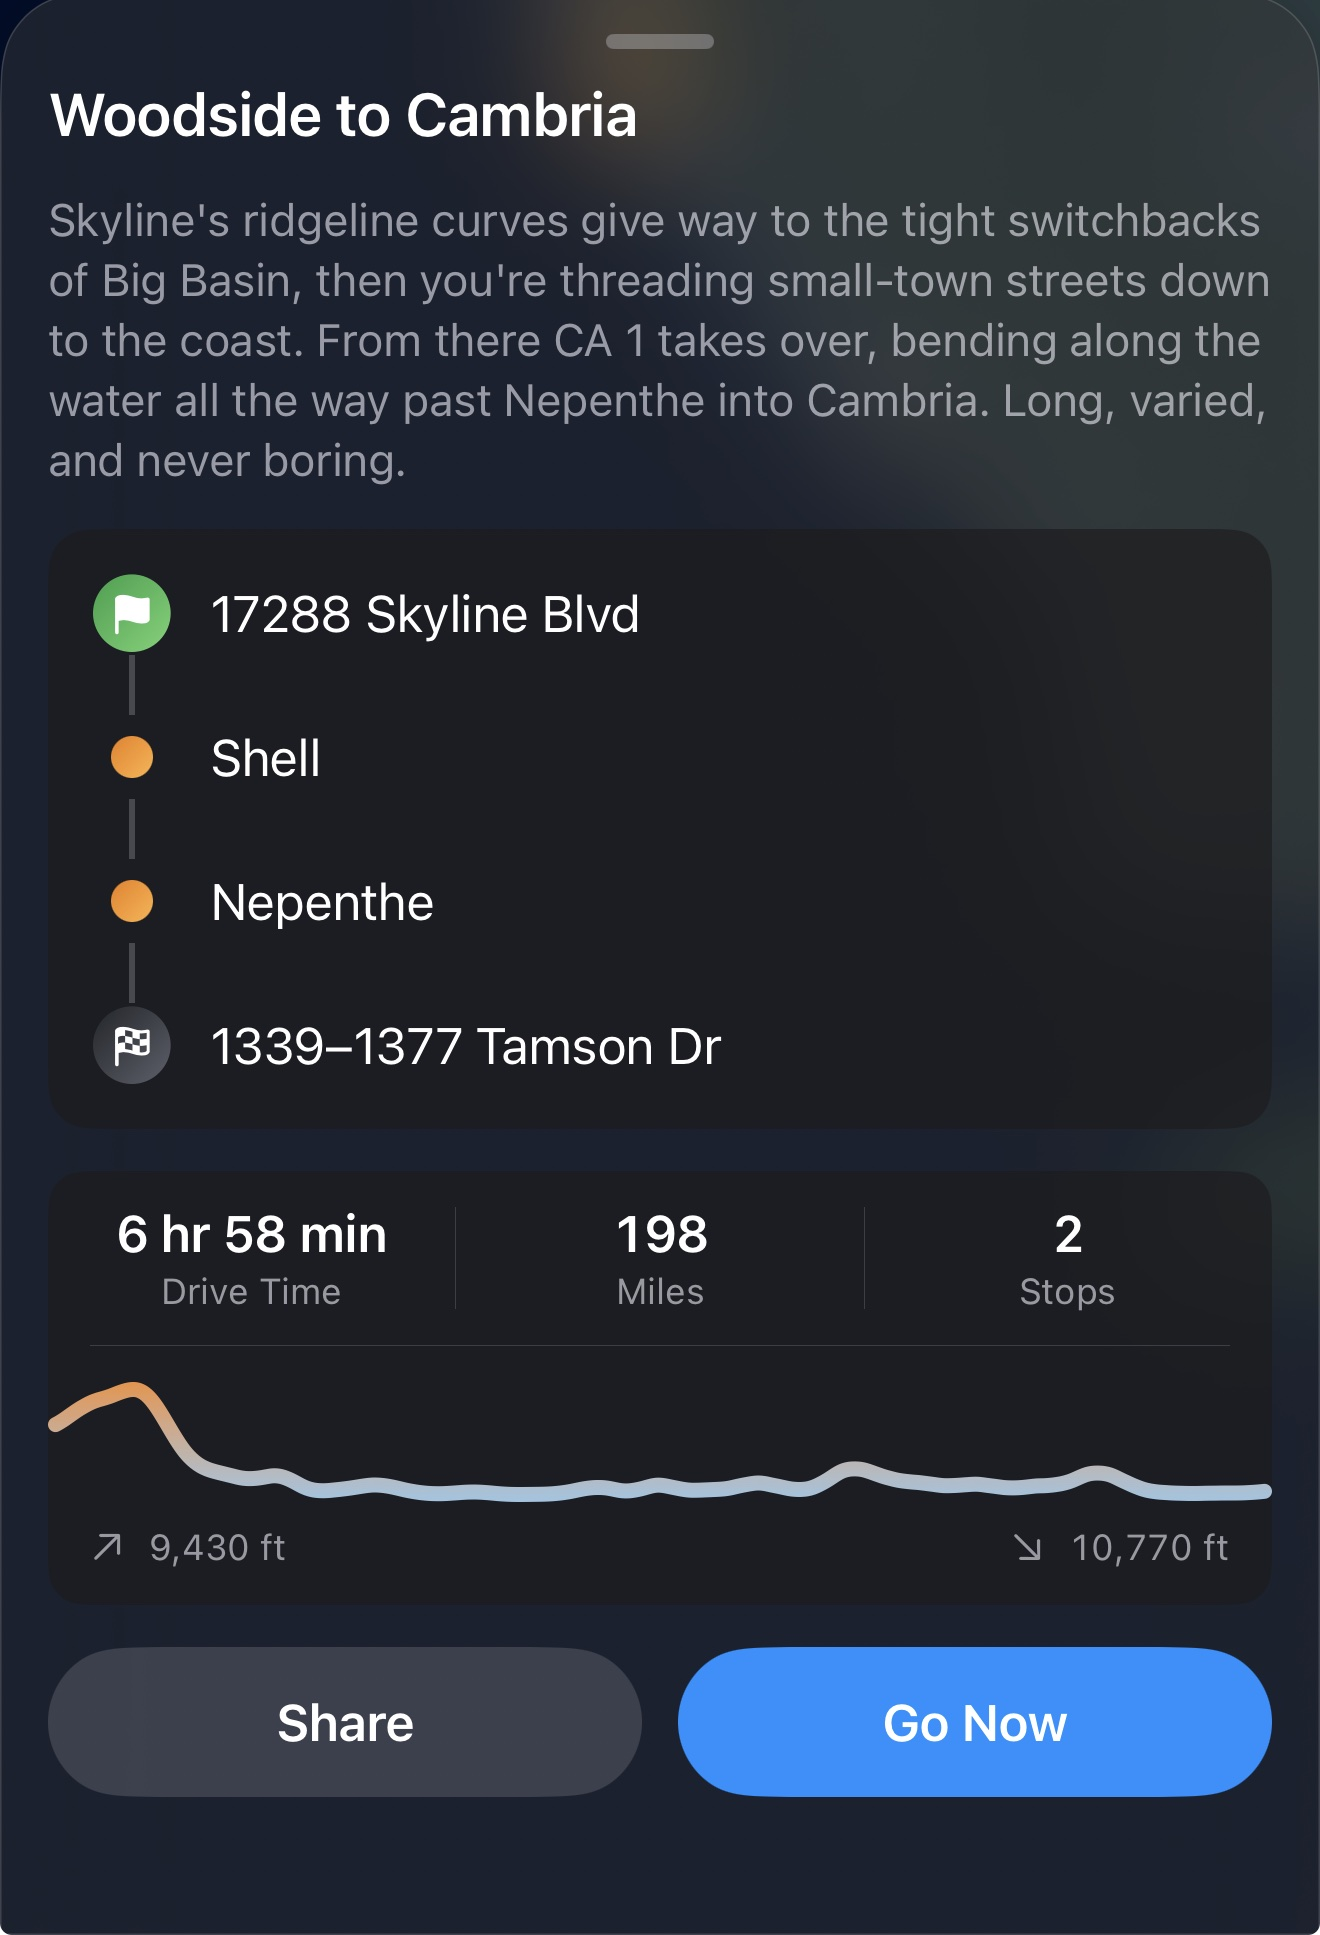
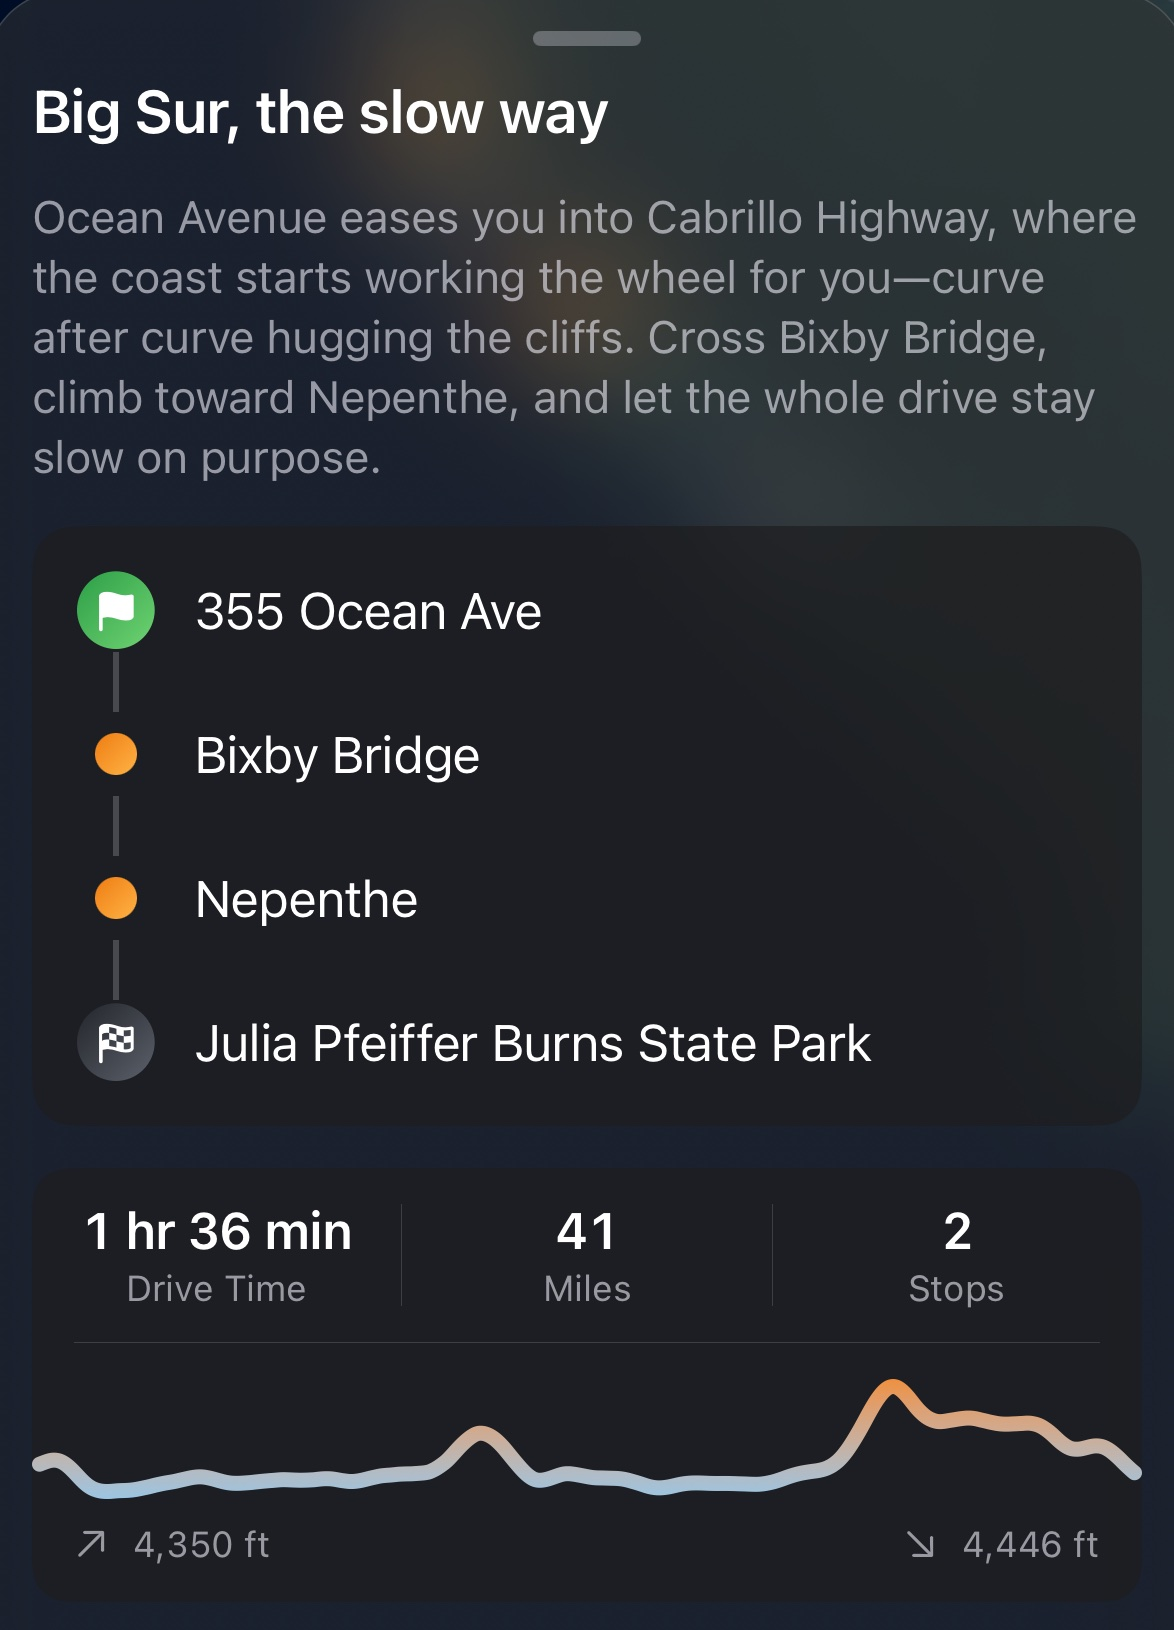
Site: more of each screen, and a word with a picture
Plan now shows the preview card over the map it sits on, both cropped
from one fresh capture of Big Sur, the slow way — the same drive the next
two sections show, and the first shot on the page with the written
description in it. Taken by deep-linking a saved route into the simulator
rather than reusing an older screenshot of a different drive.

Drive gains a drawn status bar reading No Service above the guidance, and
enough map to see the route and the puck. Return keeps its banner but now
shows the way back to the road. Share says "Great drives are worth
sharing" over a deck of route cards.

Rolodex words carry an emoji each, in the order asked for.

diff --git a/index.html b/index.html
@@ -154,7 +154,29 @@
     box-shadow: 0 26px 50px -26px rgba(21,24,28,.55);
   }
   .detail img { display: block; width: 100%; height: auto; }
-  .detail.tall { max-width: 420px; margin-inline: auto; }
+  /* Two crops of one screen, stacked: the card, then the map it sits on. */
+  .pair { display: grid; gap: 14px; max-width: 430px; margin-inline: auto; }
+
+  /* A phone's status bar, drawn rather than screenshotted, so it can say
+     the thing the section is about. */
+  .statusbar {
+    display: flex; align-items: center; justify-content: space-between;
+    background: #0F1729; color: #fff; padding: 9px 16px 7px;
+    font-family: var(--sans); font-size: 13px; font-weight: 600;
+  }
+  .statusbar .no-service { display: inline-flex; align-items: center; gap: 7px; }
+  .statusbar svg { width: 15px; height: 15px; display: block; }
+
+  /* Other routes behind the one on top. */
+  .stack { position: relative; }
+  .stack-card {
+    position: absolute; left: 50%; transform: translateX(-50%);
+    height: 44px; border-radius: 18px; background: #1B2637;
+    box-shadow: 0 14px 30px -20px rgba(21,24,28,.6);
+  }
+  .stack-card.one { width: 76%; top: -30px; background: #16202F; }
+  .stack-card.two { width: 88%; top: -15px; }
+  .stack .detail { position: relative; }
 
   /* CarPlay: the line-art dash, with the screenshot let into its screen.
      The screen's rectangle was measured off the drawing, so the two stay
@@ -239,7 +261,7 @@
     .feat h2 { margin-top: 14px; }
     .feat-copy p { margin-top: 14px; font-size: 17px; }
     .chip { margin-top: 16px; }
-    .detail.tall { max-width: 300px; }
+    .pair { max-width: 300px; }
     .also { padding-top: 32px; }
     .pricing { padding-top: 64px; }
     .price-head { margin-bottom: 24px; }
@@ -284,7 +306,7 @@
     <p class="kicker rise">Carve Route Planner</p>
     <h1 class="rise">Maps for the<br>Love of <em>Driving</em></h1>
     <p class="lede rise">Offline-ready navigation<br>for every
-      <span class="rolodex" id="rolodex" aria-live="off"><span class="rolodex-gauge" aria-hidden="true">countryside</span><span class="rolodex-view"><span class="rolodex-track"><span class="rolodex-word">canyon</span><span class="rolodex-word" aria-hidden="true"></span></span></span></span></p>
+      <span class="rolodex" id="rolodex" aria-live="off"><span class="rolodex-gauge" aria-hidden="true">countryside 🌾</span><span class="rolodex-view"><span class="rolodex-track"><span class="rolodex-word">mountain ⛰</span><span class="rolodex-word" aria-hidden="true"></span></span></span></span></p>
     <div class="cta rise" id="get">
       <a class="btn btn-primary btn-lg" data-get-app href="https://testflight.apple.com/join/UUfMN7vj"><svg class="apple" aria-hidden="true"><use href="#apple"/></svg>Get started on iPhone</a>
       <p class="note">Available on iOS and CarPlay. Android and Android&nbsp;Auto coming soon.</p>
@@ -371,9 +393,14 @@
       <div class="chip">Up to 30 stops &amp; route markers</div>
     </div>
     <div class="feat-art rise">
-      <figure class="detail tall">
-          <img src="/assets/detail-plan.jpg" alt="Carve&rsquo;s route preview: Woodside to Cambria, its stops listed in order, drive time, miles and the elevation profile" loading="lazy">
+      <div class="pair">
+        <figure class="detail">
+          <img src="/assets/detail-plan.jpg" alt="Carve&rsquo;s route preview: Big Sur, the slow way &mdash; a written description of the drive, its stops listed in order, and drive time, miles and the elevation profile" loading="lazy">
         </figure>
+        <figure class="detail">
+          <img src="/assets/detail-plan-map.jpg" alt="The same route on the map: the coast road traced from Carmel down to Julia Pfeiffer Burns, its stops numbered along the way" loading="lazy">
+        </figure>
+      </div>
     </div>
   </div>
 
@@ -387,8 +414,26 @@
     </div>
     <div class="feat-art rise">
       <figure class="detail">
-          <img src="/assets/detail-drive.jpg" alt="Carve&rsquo;s guidance banner: 3.4 miles to a right turn" loading="lazy">
-        </figure>
+        <div class="statusbar" aria-hidden="true">
+          <span>9:41</span>
+          <span class="no-service">No Service
+            <svg viewBox="0 0 24 24" fill="none" stroke="currentColor" stroke-width="2" stroke-linecap="round">
+              <path d="M2 2 L22 22" opacity=".9"/>
+              <path d="M4.5 9.5a12 12 0 0 1 5-2.9" opacity=".5"/>
+              <path d="M14.5 6.6a12 12 0 0 1 5 2.9" opacity=".5"/>
+              <path d="M8 13a7 7 0 0 1 2.4-1.5" opacity=".5"/>
+              <path d="M13.6 11.5A7 7 0 0 1 16 13" opacity=".5"/>
+              <circle cx="12" cy="17.5" r="1.1" fill="currentColor" stroke="none" opacity=".5"/>
+            </svg>
+            <svg viewBox="0 0 26 14" fill="none" stroke="currentColor" stroke-width="1.4">
+              <rect x="1" y="1" width="20" height="12" rx="3.5" opacity=".45"/>
+              <rect x="3" y="3" width="10" height="8" rx="2" fill="currentColor" stroke="none"/>
+              <path d="M23.5 5.2v3.6" stroke-linecap="round" opacity=".45"/>
+            </svg>
+          </span>
+        </div>
+        <img src="/assets/detail-drive.jpg" alt="Carve guiding a drive down the Big Sur coast with no signal: 3.4 miles to a right turn, the route drawn ahead on the map" loading="lazy">
+      </figure>
     </div>
   </div>
 
@@ -402,7 +447,7 @@
     </div>
     <div class="feat-art rise">
       <figure class="detail">
-          <img src="/assets/detail-return.jpg" alt="Off the route: Carve&rsquo;s orange banner says turn left onto Bixby Creek Bridge to get back on" loading="lazy">
+          <img src="/assets/detail-return.jpg" alt="Off the route: an orange banner says turn left onto Bixby Creek Bridge, and the map shows the way back to the road" loading="lazy">
         </figure>
     </div>
   </div>
@@ -410,15 +455,19 @@
   <div class="feat lilac flip" id="share">
     <div class="feat-copy rise">
       <div class="feat-kicker" style="--dot: var(--marker)"><i></i>Share</div>
-      <h2>Good roads<br>are worth sharing.</h2>
+      <h2>Great drives<br>are worth sharing.</h2>
       <p>One link carries the whole route. Friends open it in Carve and
          drive the same roads, the same stops.</p>
       <div class="chip">Same roads · same stops</div>
     </div>
     <div class="feat-art rise">
-      <figure class="detail">
-        <img src="/assets/detail-share.jpg" alt="A Carve route card: Skyline dawn patrol, 28.3 miles, one stop, downloaded, with Share and Go Now" loading="lazy">
-      </figure>
+      <div class="stack">
+        <span class="stack-card one" aria-hidden="true"></span>
+        <span class="stack-card two" aria-hidden="true"></span>
+        <figure class="detail">
+          <img src="/assets/detail-share.jpg" alt="A Carve route card: Skyline dawn patrol, 28.3 miles, one stop, downloaded, with Share and Go Now" loading="lazy">
+        </figure>
+      </div>
     </div>
   </div>
 
@@ -547,7 +596,7 @@
   // invisibly, to the top. A tab in the background may never fire
   // transitionend, so a timer finishes the turn if the event doesn't.
   (function () {
-    var words = ["canyon", "backroad", "countryside", "coastline", "mountain"];
+    var words = ["mountain ⛰", "coastline 🌊", "countryside 🌾", "canyon 🏜", "backroad 🏁"];
     var box = document.getElementById("rolodex");
     if (!box) return;
     var gauge = box.querySelector(".rolodex-gauge");
